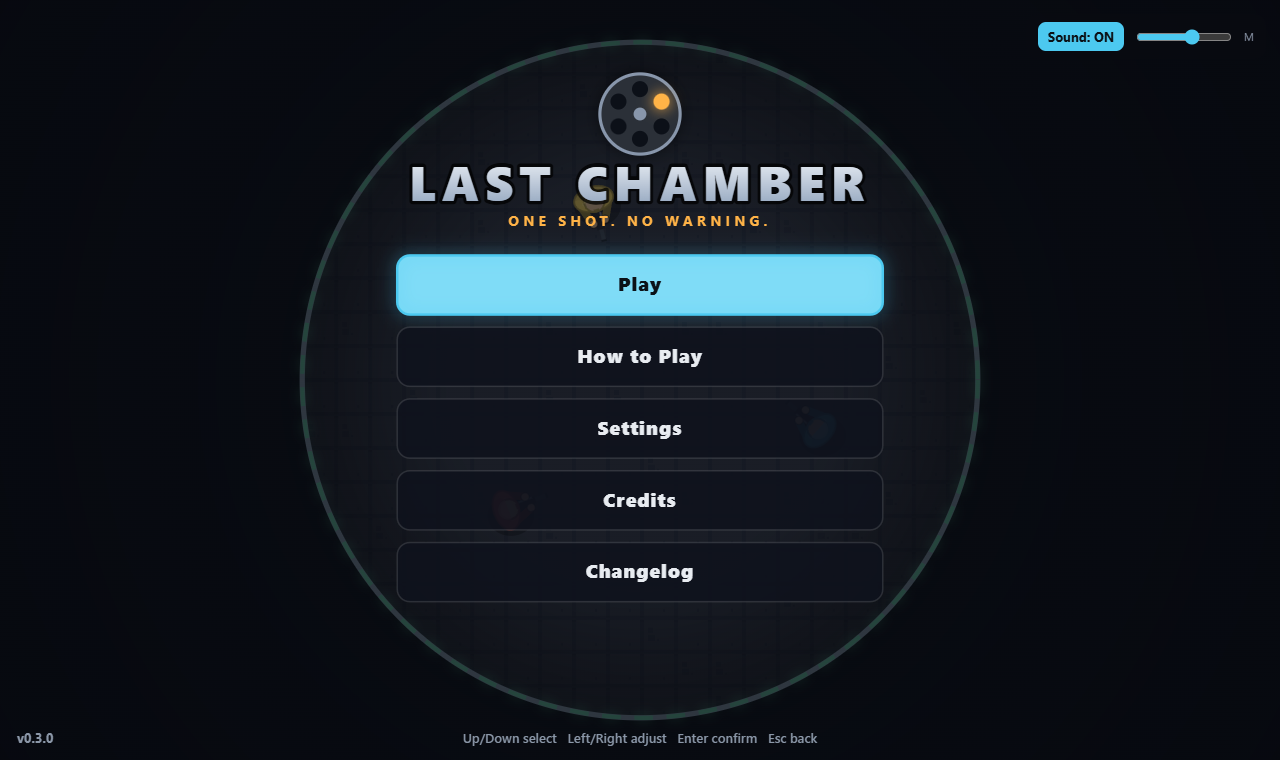
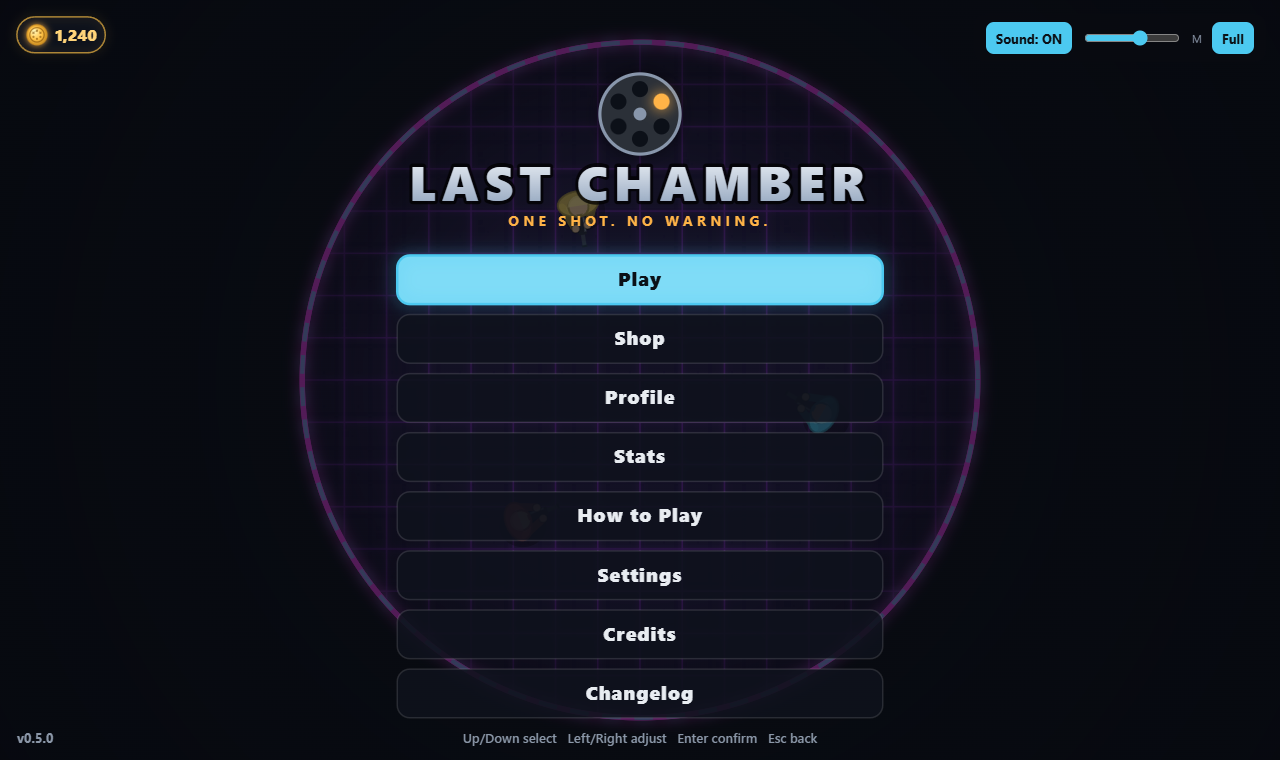
Refresh README screenshots and roadmap for v0.6.0

diff --git a/README.md b/README.md
@@ -50,6 +50,10 @@ There is no fire button. The skill is positioning, aiming and predicting where o
 | :---: | :---: |
 | <img src="docs/screenshots/hidden.png" alt="Hidden phase" width="380"> | <img src="docs/screenshots/reveal.png" alt="Reveal" width="380"> |
 
+| Shop | Shop (mobile) | Game over with Shells |
+| :---: | :---: | :---: |
+| <img src="docs/screenshots/shop.png" alt="Shop" width="300"> | <img src="docs/screenshots/shop-mobile.png" alt="Shop on mobile" width="150"> | <img src="docs/screenshots/game-over.png" alt="Game over with Shells earned" width="300"> |
+
 | Custom match | Mobile (portrait) | Mobile (landscape) |
 | :---: | :---: | :---: |
 | <img src="docs/screenshots/custom.png" alt="Custom match screen" width="300"> | <img src="docs/screenshots/mobile-portrait.png" alt="Mobile portrait" width="150"> | <img src="docs/screenshots/mobile-landscape.png" alt="Mobile landscape" width="300"> |
@@ -149,11 +153,13 @@ tests/                                    Vitest suites
 - Players outside the safe circle still fire; boundary and shot deaths apply together
 
 ## Testing
-`npm test` runs the Vitest suites covering ray misses and off-center hits, nearest-target selection, mutual and chain kills, array-order independence, safe-circle edge cases, draw and win outcomes, single resolution at the deadline, round-limit draws, restart, bot behavior, menu navigation, settings clamping, the changelog parser and touch-stick math.
+`npm test` runs the Vitest suites covering ray misses and off-center hits, nearest-target selection, mutual and chain kills, array-order independence, safe-circle edge cases, draw and win outcomes, single resolution at the deadline, round-limit draws, restart, bot behavior, menu navigation, settings clamping, the changelog parser, touch-stick math, local stats, Shell payouts, the shop catalog, buying and equipping, and saved progress.
 
 Mobile support has been verified with emulated touch in a headless browser, not yet on real devices.
 
 ## Roadmap
+- Player level, XP and achievements (phase 2 of the currency plan)
+- Daily login rewards and challenges
 - Online multiplayer (the `Command` model is designed for it)
 - Real-device mobile testing (iOS Safari fullscreen, notches, haptics)
 - Logo and final art pass
